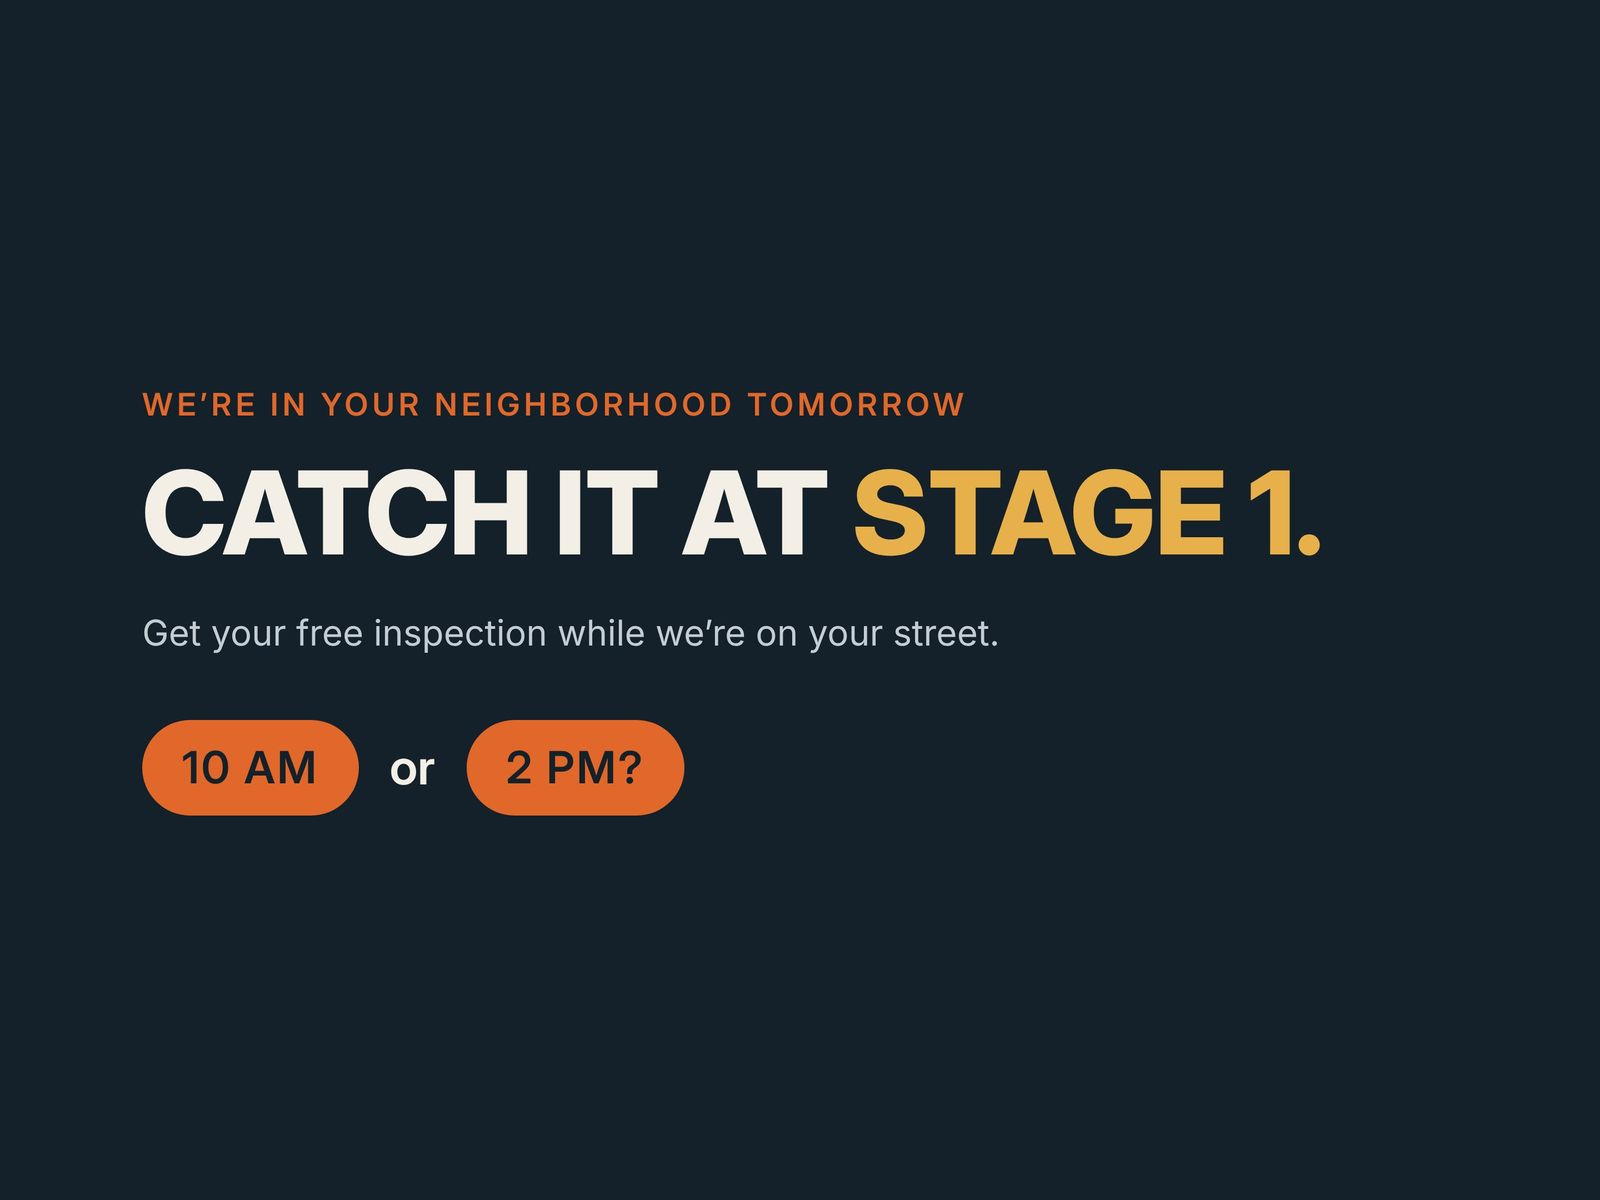
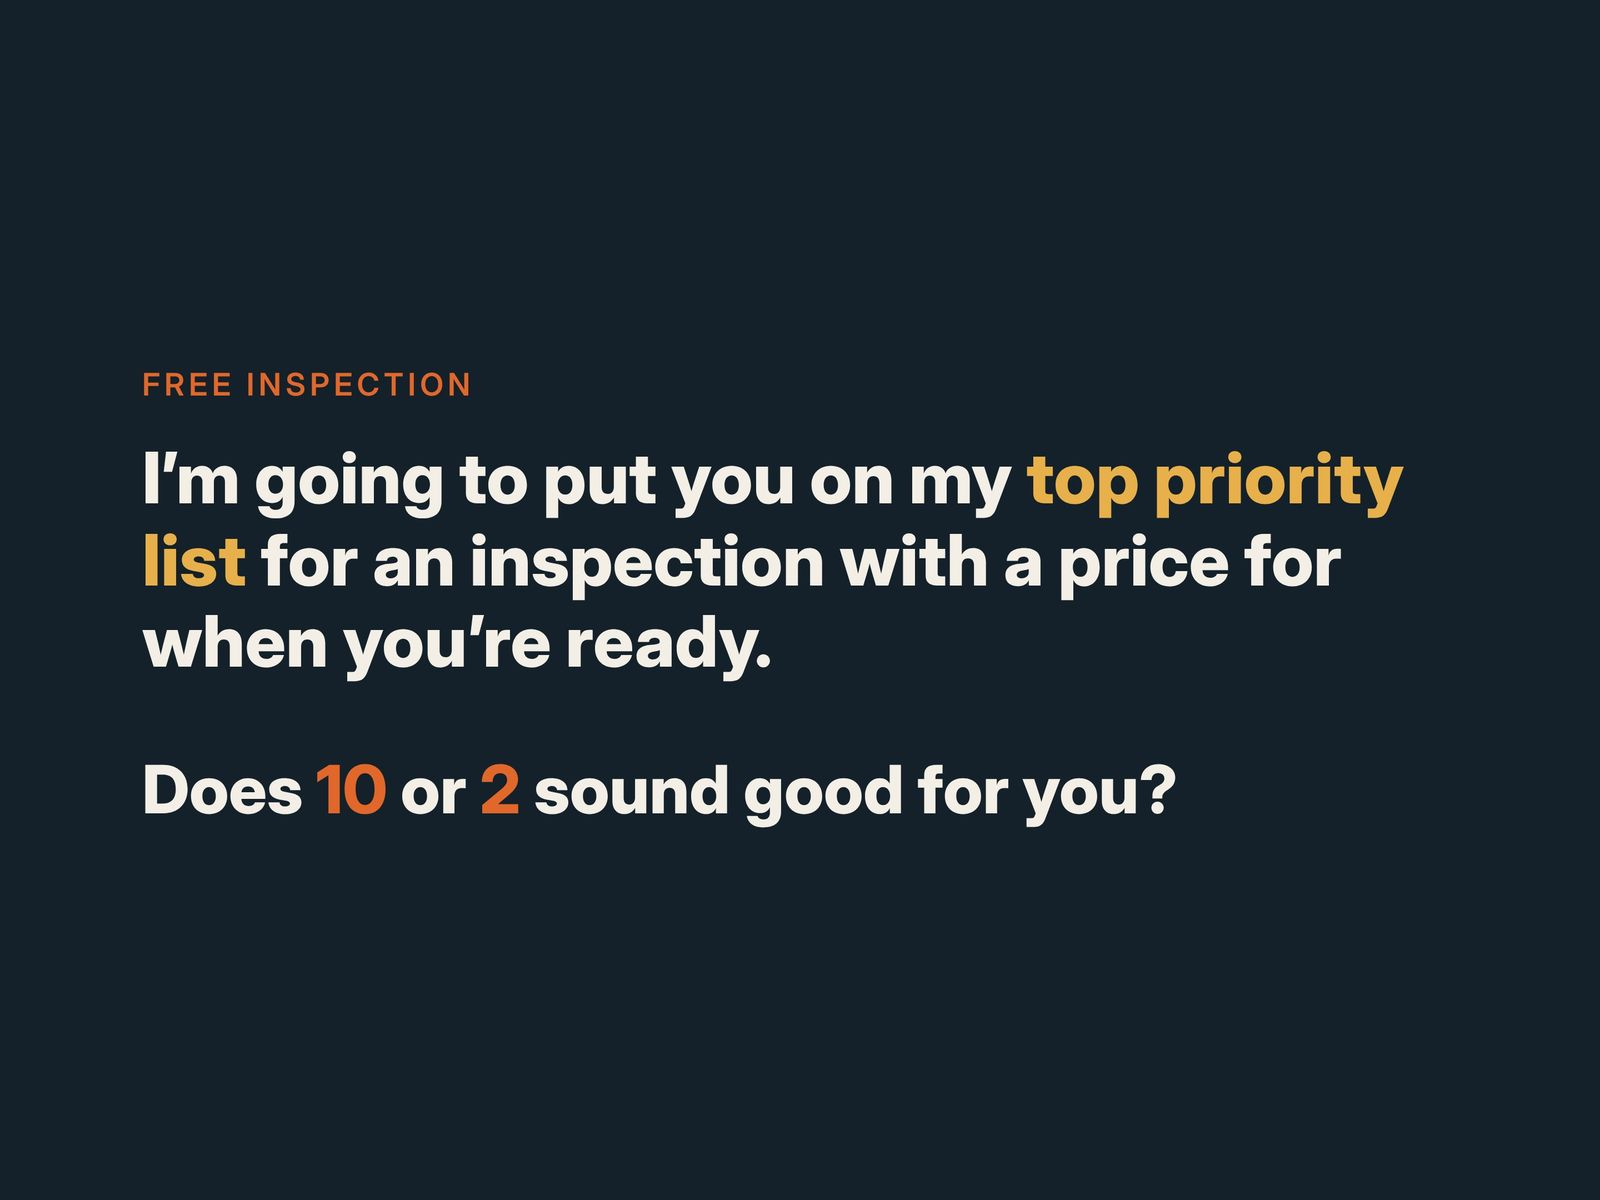
Slicks: new closing slide — top priority list + 'Does 10 or 2 sound good for you?'
Claude-Session: https://claude.ai/code/session_01THceSUczpQ8iZEFGh167BG

Changed region(s): [[0.0625, 0.3083, 0.875, 0.5858], [0.0625, 0.5858, 0.75, 0.7092]]

diff --git a/public/slicks.js b/public/slicks.js
@@ -48,7 +48,7 @@
     cur = set;
     ttl.textContent = SETS[set].name; mode(true);
     var h = ""; for (var i = 1; i <= SETS[set].n; i++){ var f = (i < 10 ? "0" : "") + i;
-      h += '<div class="sl"><img ' + (i <= 2 ? "" : 'loading="lazy" ') + 'src="slicks/sets/' + set + "/" + f + '.jpg?v=1" alt="' + SETS[set].name + ' slide ' + i + '"></div>'; }
+      h += '<div class="sl"><img ' + (i <= 2 ? "" : 'loading="lazy" ') + 'src="slicks/sets/' + set + "/" + f + '.jpg?v=2" alt="' + SETS[set].name + ' slide ' + i + '"></div>'; }
     Z = { s: 1, x: 0, y: 0, img: null }; stage.style.overflowX = ""; stage.innerHTML = h; stage.scrollLeft = 0; upd();
   }
   function go(d){ zreset(); var i = Math.max(0, Math.min(SETS[cur].n - 1, idx() + d)); stage.scrollTo({ left: i * stage.clientWidth, behavior: "smooth" }); }

diff --git a/public/index.html b/public/index.html
@@ -3952,7 +3952,7 @@
 <script src="practice.js?v=59"></script>
 <script src="tele.js?v=29"></script>
 <script src="sync.js?v=3"></script>
-<script src="slicks.js?v=7"></script>
+<script src="slicks.js?v=8"></script>
 <div id="wlSetup">
   <div class="wl-wrap">
     <div style="display:flex;align-items:center;gap:10px;margin-bottom:8px"><img src="/goldenbee-hc-icon-v3.png" alt="" style="width:40px;height:40px;border-radius:50%"><div style="font-size:11px;font-weight:800;letter-spacing:.18em;color:#7d838c">GOLDENBEE MALAJ HOME CONNECTORS</div></div>
